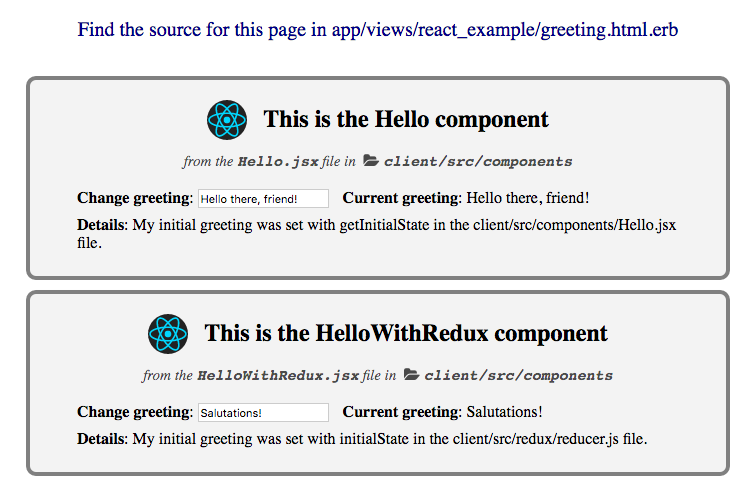
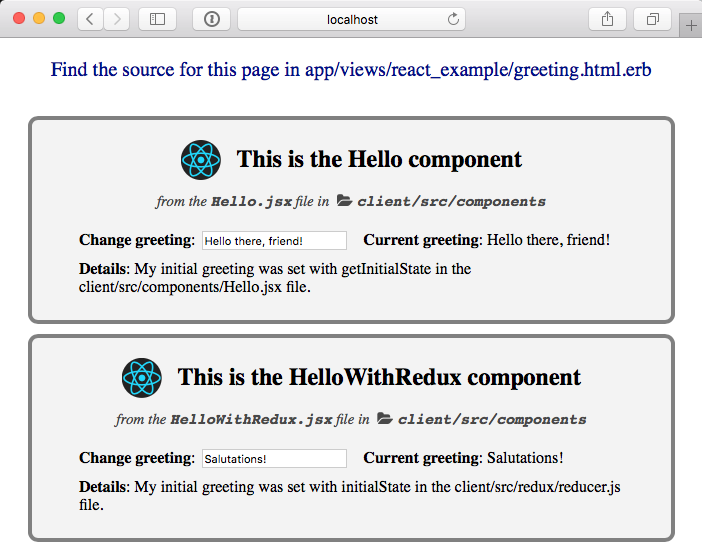
improve demo page image, add links to it from features

Changed region(s): [[0.0, 0.0, 1.0, 1.0]]

diff --git a/README.md b/README.md
@@ -1,18 +1,18 @@
 # ReactRailsWebpack
 
+![Image of main demo page with two example React components on it](images/demo_page.png "Image of main demo page with two example React components on it")
+
 [![Gem Version](https://badge.fury.io/rb/react_rails_webpack.svg)](https://badge.fury.io/rb/react_rails_webpack)
 
 > Warning: If you are upgrading across major versions, please read the [release notes in the changelog](CHANGELOG.md).
 
 Ruby gem for quickly creating highly customizable react/rails integrations using webpack and npm.
 
-![Image of main demo page with two example React components on it](images/demo_page.png "Image of main demo page with two example React components on it")
-
 ## Key Features
 
 1. One-command setup
 2. Use any packages from the [npm](https://www.npmjs.com) ecosystem
-3. Built-in examples of plain and [redux](http://redux.js.org)-backed React components
+3. [Built-in examples](images/demo_page.png) of plain and [redux](http://redux.js.org)-backed React components
 4. The [webpack](https://webpack.github.io) development server for React components will live update your changes to any device on your local network (including phones) (gif demo of this feature [here](images/rrw_demo_short.gif))
 
 [more features...](FEATURES.md)

diff --git a/FEATURES.md b/FEATURES.md
@@ -2,7 +2,7 @@
 
 1. One-command setup
 2. Use any packages from the [npm](https://www.npmjs.com) ecosystem
-3. Built-in examples of plain and [redux](http://redux.js.org)-backed React components
+3. [Built-in examples](images/demo_page.png) of plain and [redux](http://redux.js.org)-backed React components
 4. The [webpack](https://webpack.github.io) development server for React components will live update your changes to any device on your local network (including phones)
 5. Integrated with [hjs-webpack](https://github.com/HenrikJoreteg/hjs-webpack) to simplify webpack configuration ([video about hjs-webpack](http://learn.humanjavascript.com/react-ampersand/setting-up-webpack))
 6. Integration code is added directly to project, making it easy to read and modify
